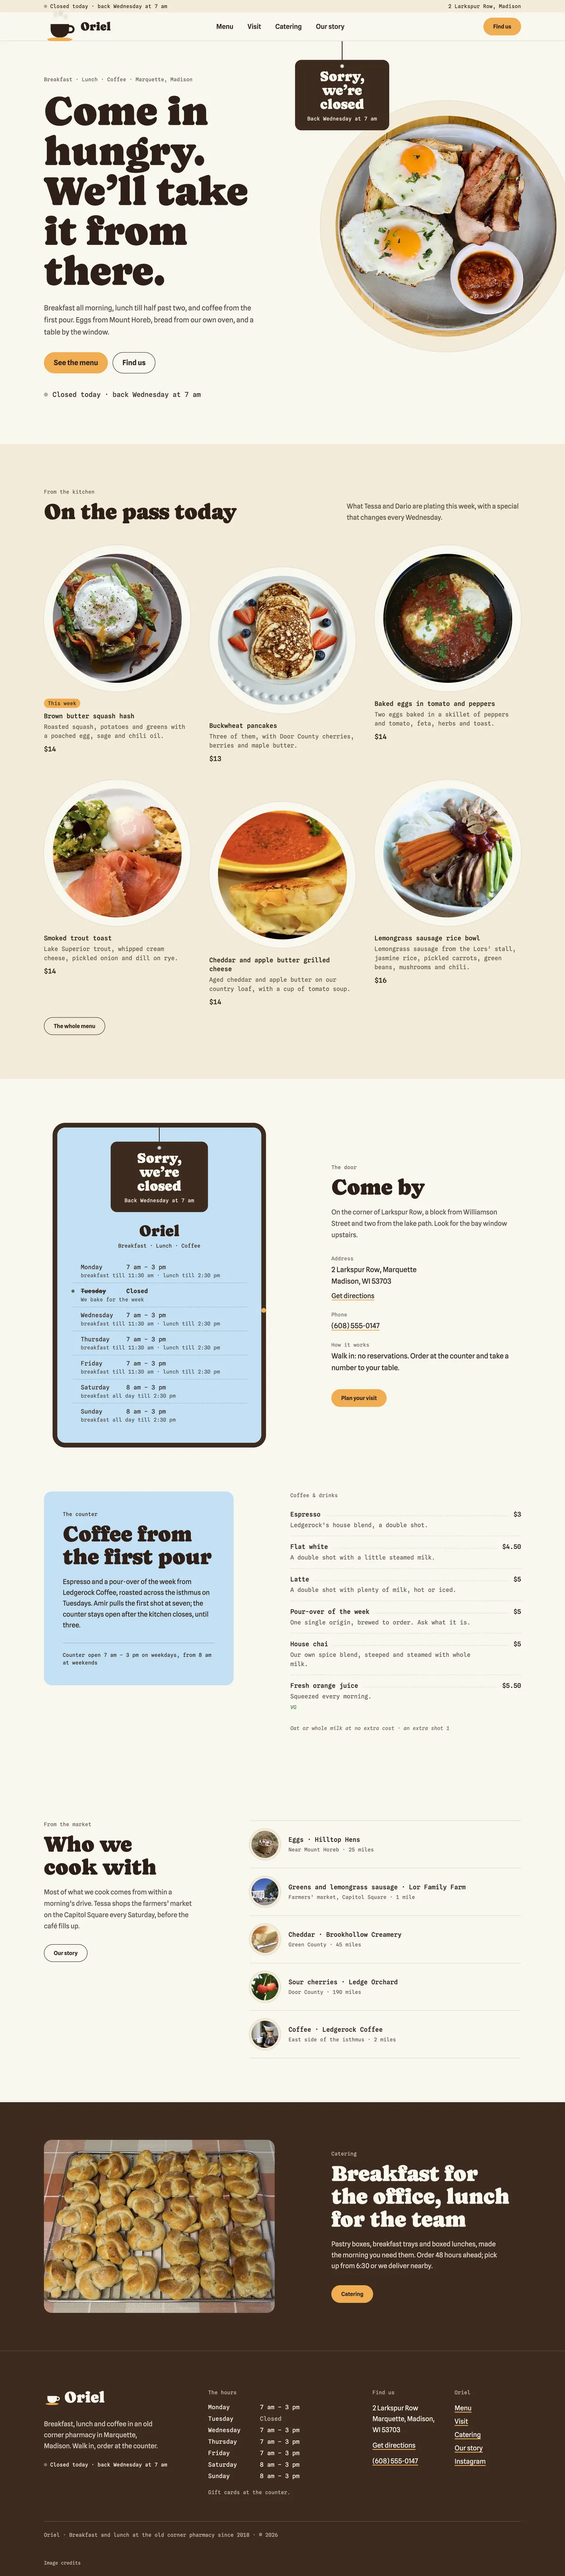
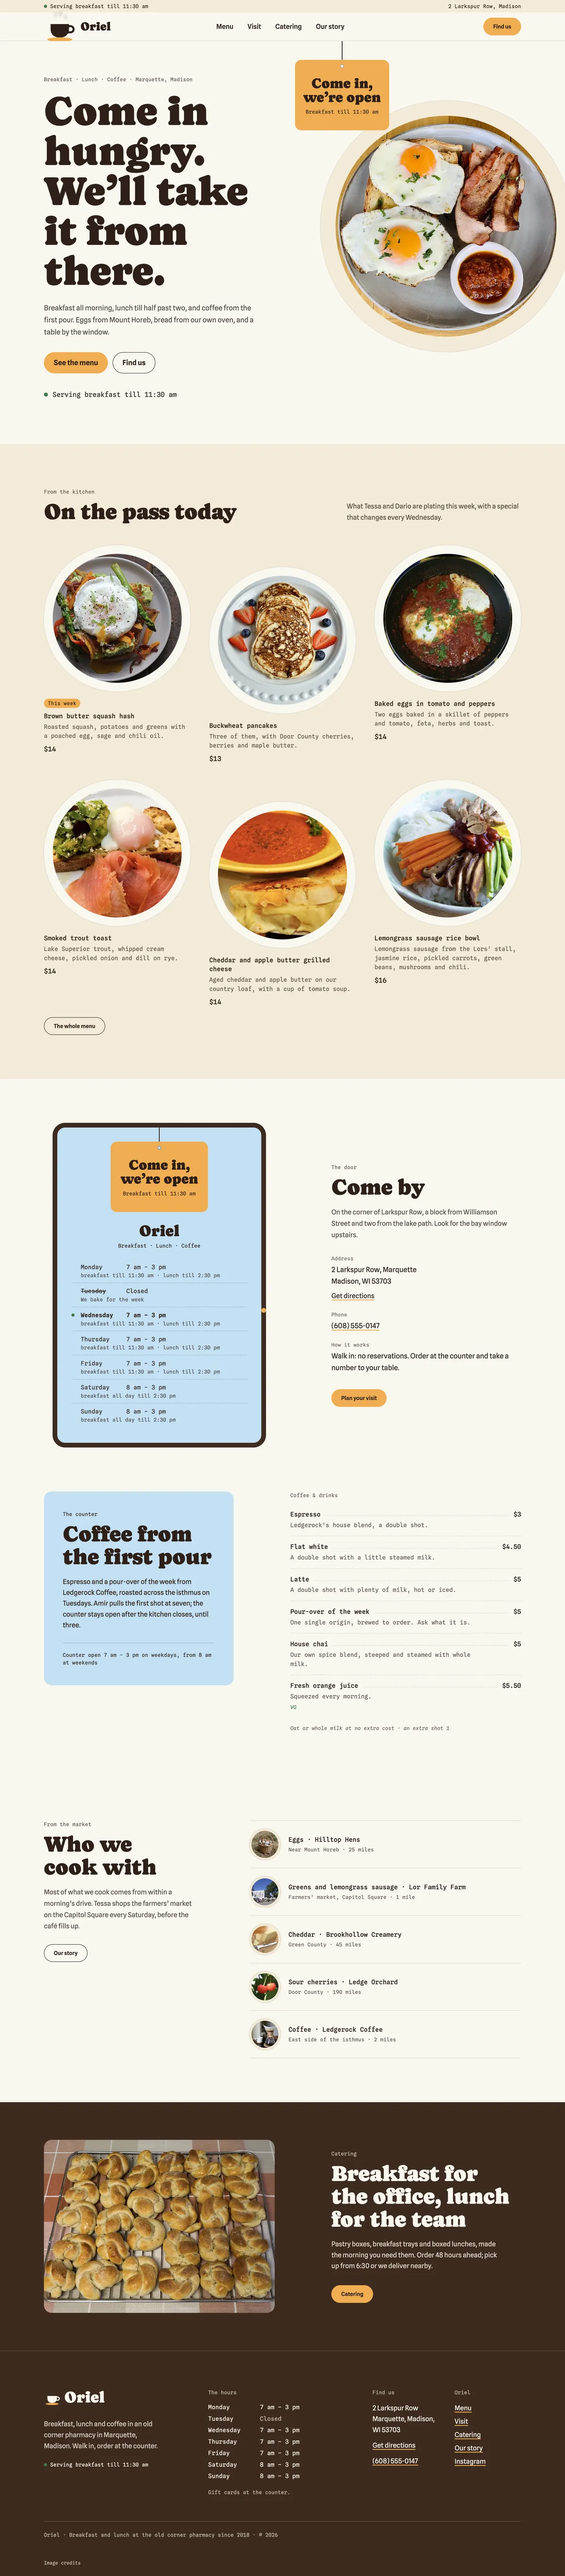
Saucer is photographed at its own clock, a Wednesday at 9:30 in Madison (shoot.clock in its template.json): the cover and the hover show the card "Come in, we're open", the now line serving breakfast and the menu's Breakfast tab marked Now, whatever the day of the shoot. FORMAT.md says what shoot.cl

Changed region(s): [[0.5242, 0.0, 0.7092, 0.0621], [0.185, 0.435, 0.37, 0.4972]]

diff --git a/FORMAT.md b/FORMAT.md
@@ -22,7 +22,7 @@ A template is an ordinary Upstart project folder, which its author opens in Upst
   }
   ```
 
-  `category` is one of `business`, `portfolio`, `blog`, `launch`, `event`, `app`; `original` marks one of the original, animated designs (Q230). What the project's own files say is not repeated there: the libraries' licences are in `scripts/libraries.json` and at the top of `scripts/lib/` files, each image's credits beside it in `media/`, the pictures in `pictures/`.
+  `category` is one of `business`, `portfolio`, `blog`, `launch`, `event`, `app`; `original` marks one of the original, animated designs (Q230). A template whose look follows the time of day (a café's card that reads open or closed) adds `"shoot": { "clock": "2027-04-14T09:30:00-05:00" }`, the instant its pictures are taken at whatever the day of the shoot; the app reads nothing else of it. What the project's own files say is not repeated there: the libraries' licences are in `scripts/libraries.json` and at the top of `scripts/lib/` files, each image's credits beside it in `media/`, the pictures in `pictures/`.
 - `TEMPLATE.md`, its guide for the agent that adapts it (Q299, Q306): Upstart keeps it beside a website started from the template while the website is adapted, page type by page type, and does not copy it into the website. A page type is the pages that share a first folder of `pages/`, with their records: `pages/index.liquid` is the home page, `/`; `pages/events/[events].liquid` belongs to `/events`. The guide says what matters only while adapting:
 
   ```markdown
